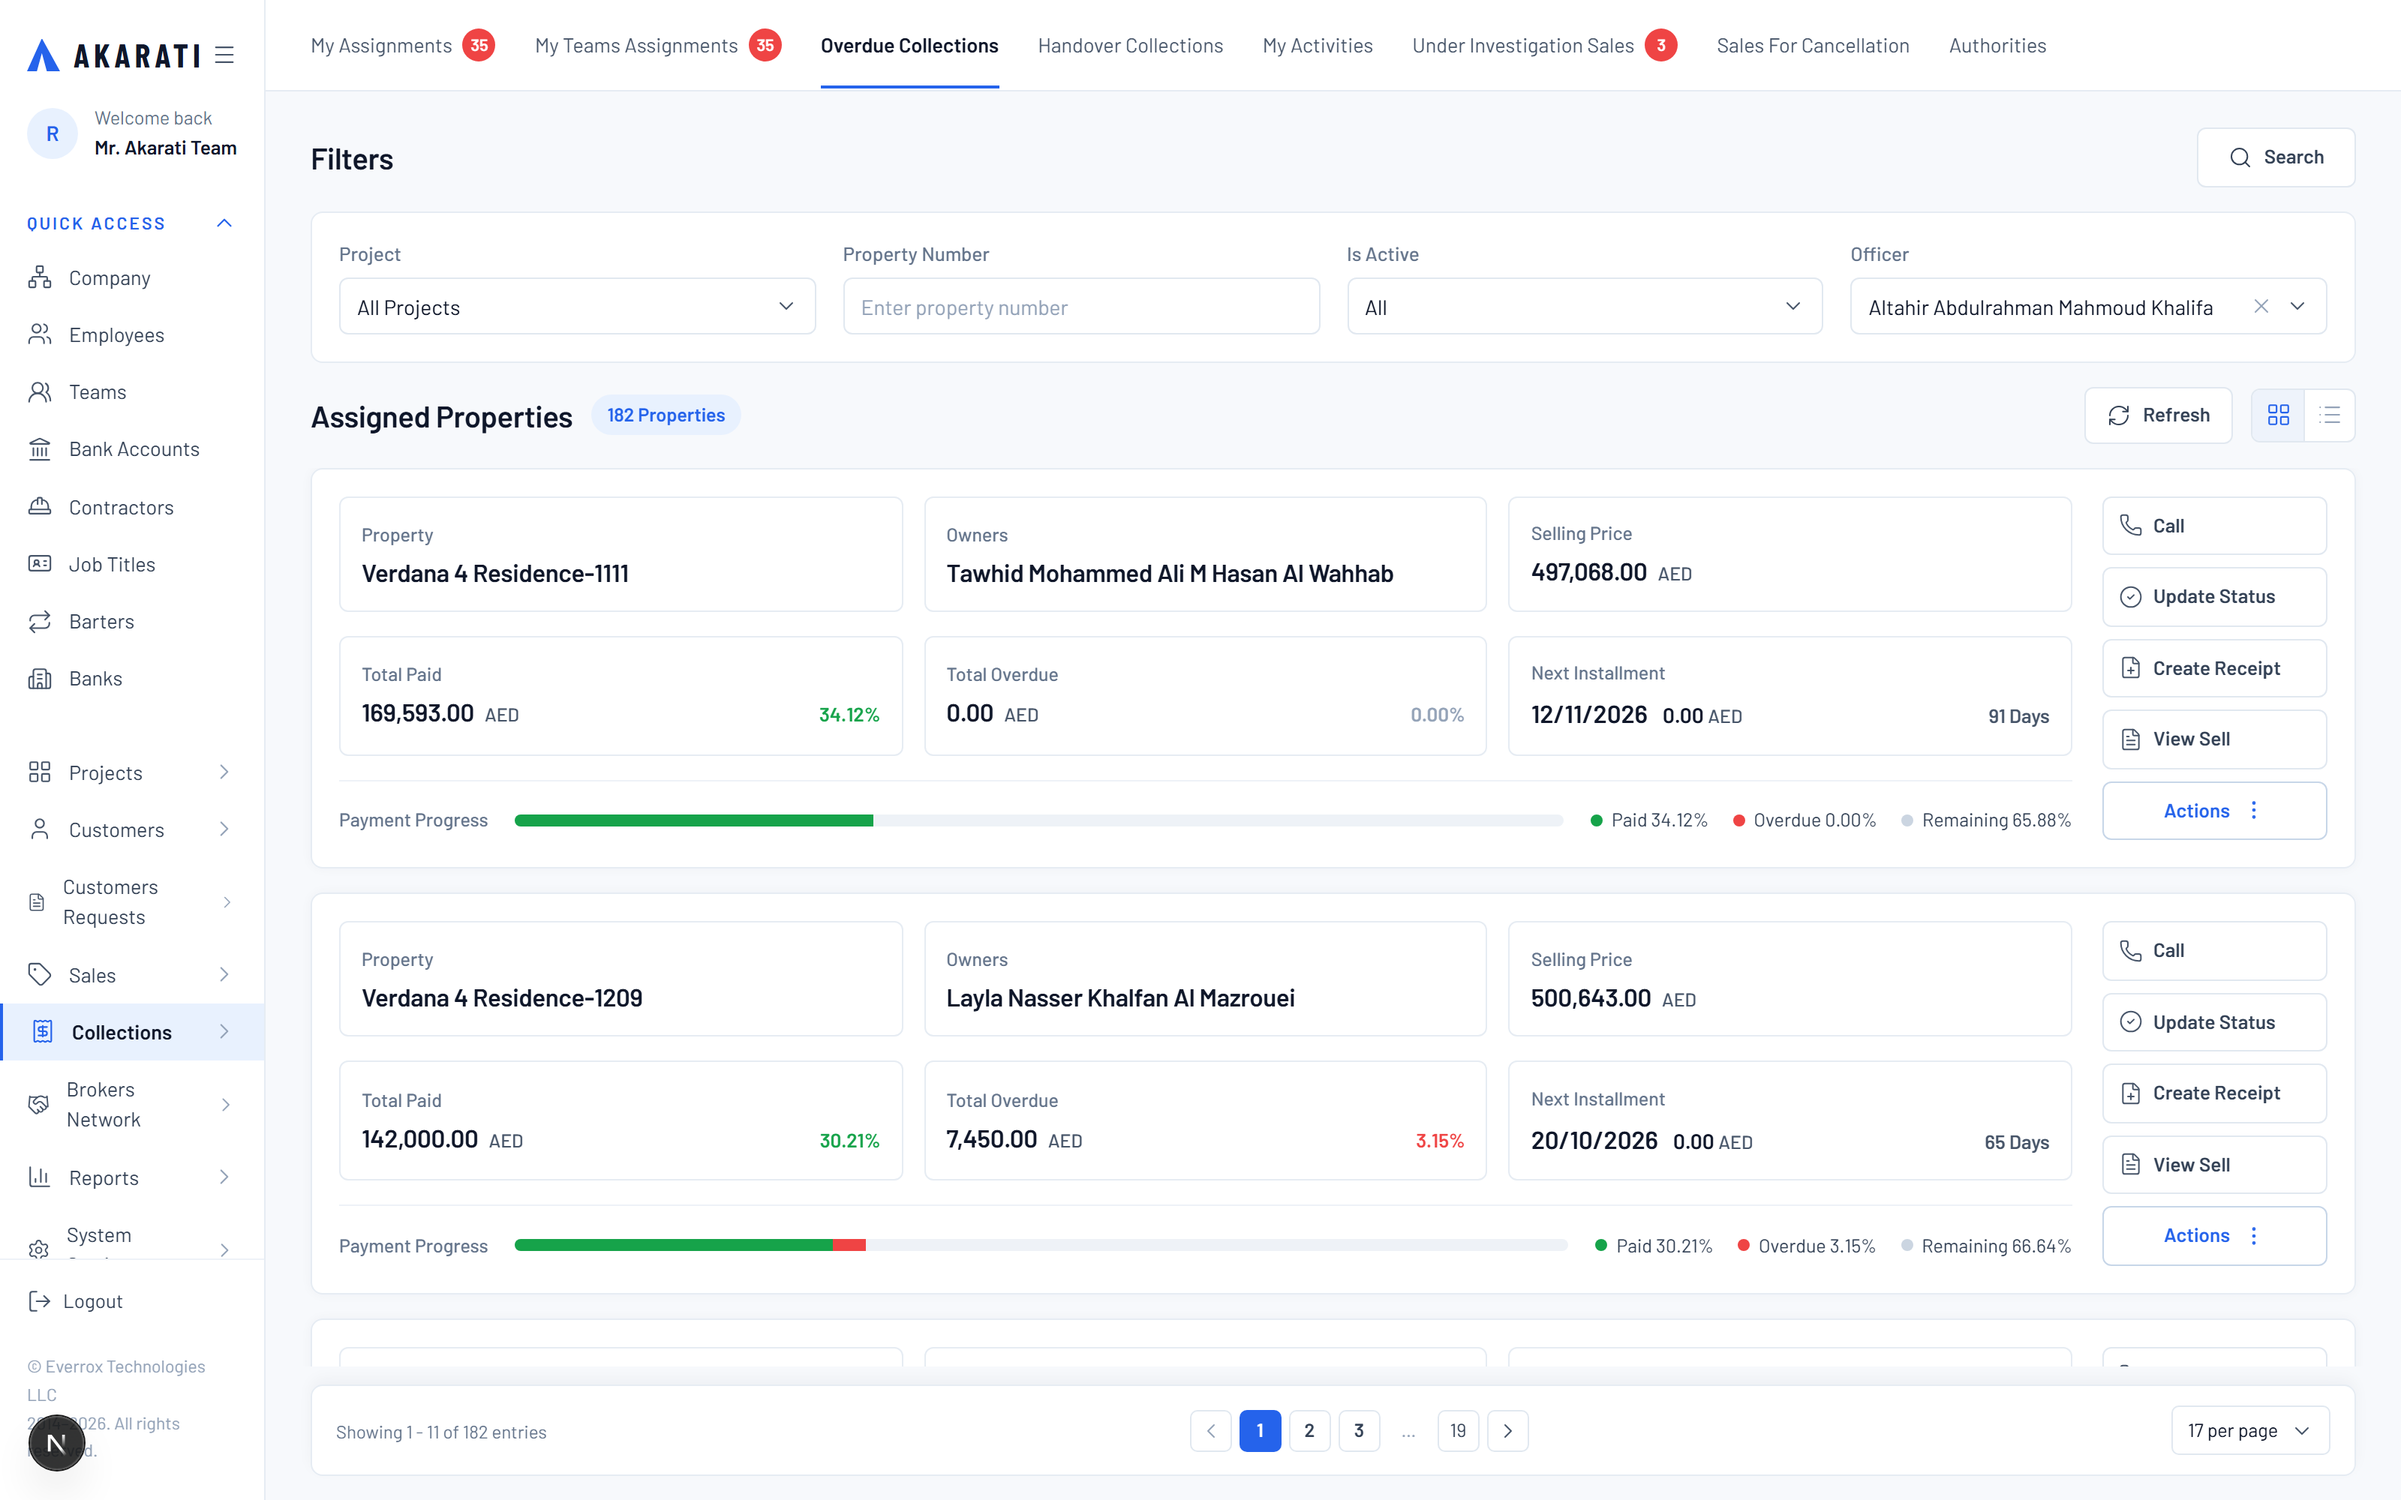
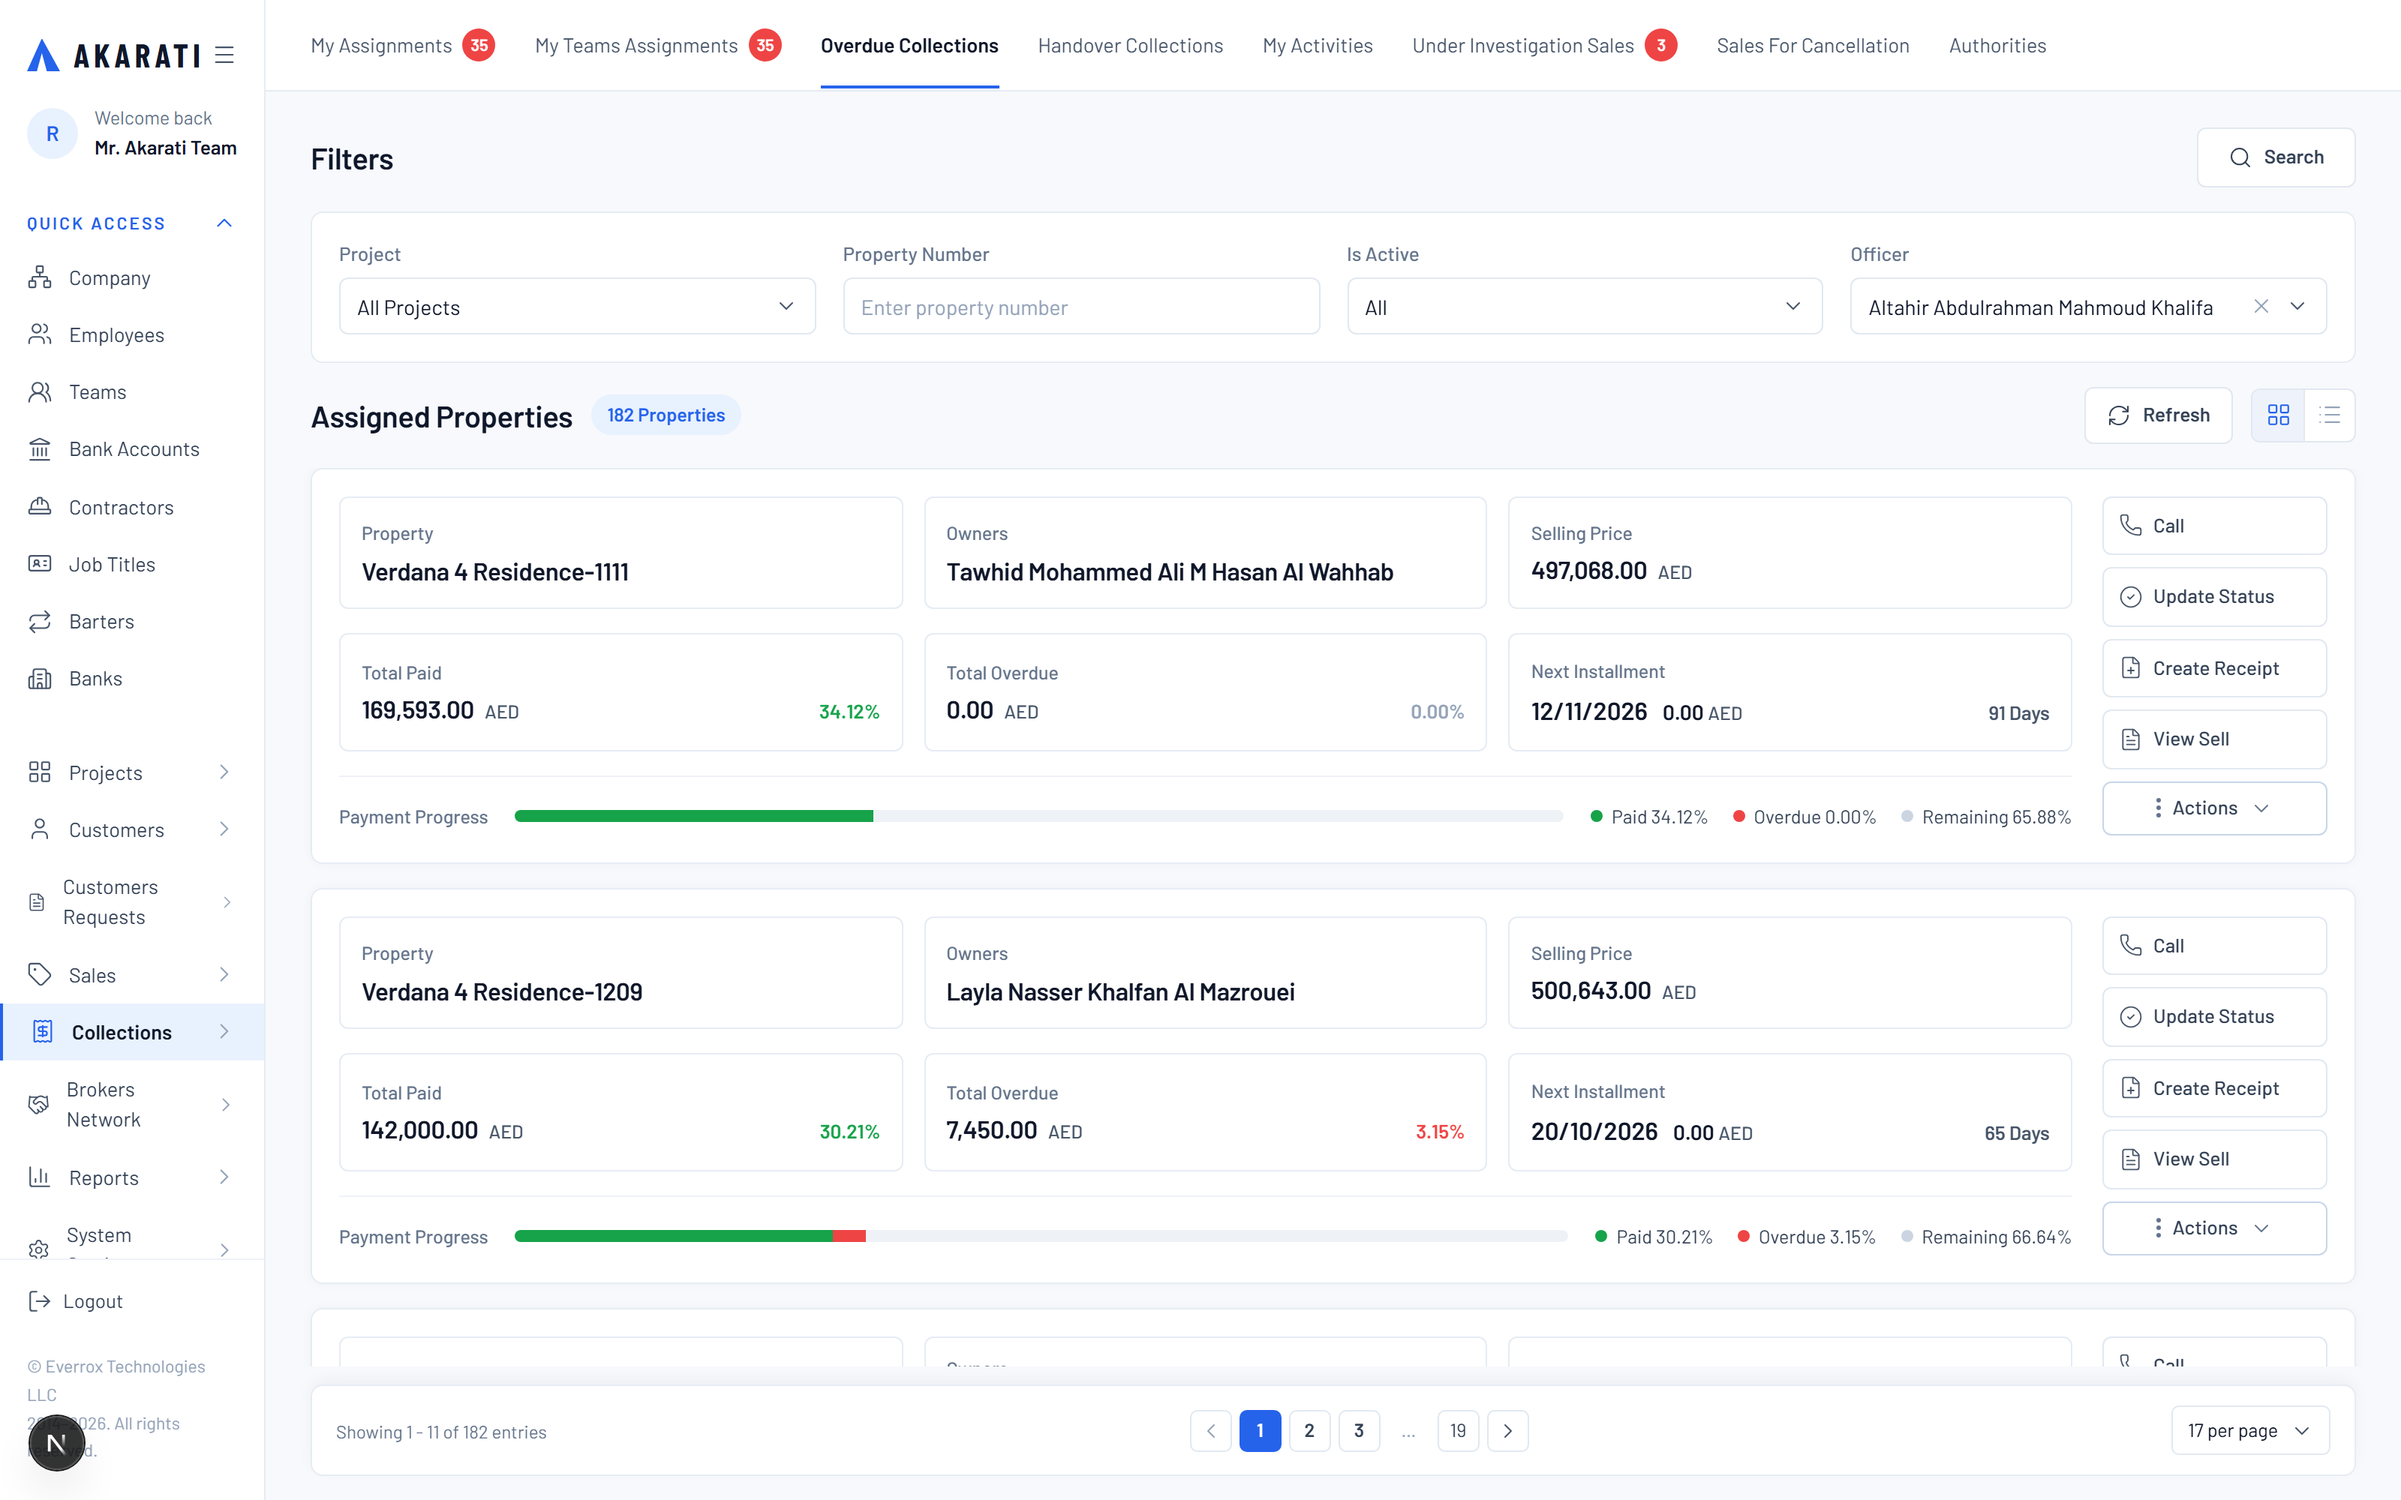
feat: add ActionsMenu and PropertiesTable components for property management interface

diff --git a/src/components/assigned-properties/ActionsMenu.tsx b/src/components/assigned-properties/ActionsMenu.tsx
@@ -1,7 +1,7 @@
 "use client";
 
 import type { ComponentType } from "react";
-import { MoreVertical, Power } from "lucide-react";
+import { MoreVertical, ChevronDown, Power } from "lucide-react";
 
 export type MenuItem = { label: string; icon: ComponentType<{ className?: string; strokeWidth?: number }> };
 
@@ -33,7 +33,7 @@ export function ActionsMenu({
                 : "border-border bg-white text-ink-muted hover:border-accent-border hover:bg-accent-soft hover:text-accent")
             }
         >
-          <MoreVertical className="h-4 w-4" strokeWidth={1.5} />
+          <MoreVertical className="h-4 w-4" strokeWidth={1.4} />
         </button>
       ) : (
         <button
@@ -41,37 +41,48 @@ export function ActionsMenu({
           aria-expanded={open}
           onClick={onToggle}
           className={
-            "flex w-full cursor-pointer items-center justify-center gap-2 rounded-[6px] border border-accent-border font-body text-[13px] font-semibold text-accent transition-colors px-3 py-[9px] " +
-            (open ? "bg-accent-soft" : "bg-white hover:bg-accent-soft")
+            "flex h-9 w-full cursor-pointer items-center justify-center gap-2 rounded-[6px] border font-body text-[13px] font-medium text-ink-soft transition-colors " +
+            (open ? "border-accent-border bg-hover" : "border-[#c7d6e8] bg-white hover:bg-hover")
           }
         >
+          <MoreVerticalDots />
           Actions
-          <MoreVertical className="h-4 w-4" strokeWidth={1.5} />
+          <ChevronDown className="h-4 w-4 text-label" strokeWidth={1.4} />
         </button>
       )}
 
       {open && (
         <div
           className={
-            "absolute z-20 flex w-[214px] flex-col rounded-[8px] border border-border-soft bg-white py-[6px] shadow-[0_14px_32px_rgba(15,23,42,0.14)] end-0 " +
+            "absolute z-20 flex w-[192px] flex-col rounded-[8px] border border-border-soft bg-white py-[6px] shadow-[0_14px_32px_rgba(15,23,42,0.14)] end-0 " +
             (flipUp ? "bottom-[38px]" : "top-[38px]")
           }
         >
           {items.map(({ label, icon: Icon }) => (
             <span
               key={label}
-              className="flex cursor-pointer items-center gap-[9px] px-3 py-[7px] text-[13px] text-ink-soft hover:bg-page"
+              className="flex cursor-pointer items-center gap-[9px] px-3 py-[8px] text-[13px] text-ink-soft hover:bg-page"
             >
-              <Icon className="h-4 w-4 text-ink-muted" strokeWidth={1.5} />
+              <Icon className="h-4 w-4 text-ink-muted" strokeWidth={1.4} />
               {label}
             </span>
           ))}
-          <span className="mt-1 flex cursor-pointer items-center gap-[9px] border-t border-border-faint px-3 pt-[8px] pb-[6px] text-[13px] font-semibold text-red hover:bg-red/5">
-            <Power className="h-4 w-4 text-red" strokeWidth={1.5} />
+          <span className="flex cursor-pointer items-center gap-[9px] px-3 py-[8px] text-[13px] font-semibold text-red hover:bg-red/5">
+            <Power className="h-4 w-4 text-red" strokeWidth={1.4} />
             Request Termination
           </span>
         </div>
       )}
+    </span>
+  );
+}
+
+function MoreVerticalDots() {
+  return (
+    <span className="flex flex-none flex-col items-center justify-center gap-[2px]">
+      <span className="h-[3px] w-[3px] rounded-full bg-label" />
+      <span className="h-[3px] w-[3px] rounded-full bg-label" />
+      <span className="h-[3px] w-[3px] rounded-full bg-label" />
     </span>
   );
 }

diff --git a/src/components/assigned-properties/PropertiesTable.tsx b/src/components/assigned-properties/PropertiesTable.tsx
@@ -236,22 +236,16 @@ export function PropertiesTable({
                   <div className="flex items-center gap-2">
                     <button
                       type="button"
-                      className="group flex h-[35px] w-[74px] cursor-pointer items-center justify-center gap-[7px] rounded-[6px] border border-border-soft bg-white font-body text-[13px] font-semibold whitespace-nowrap text-ink-soft transition-colors hover:border-accent-border hover:text-accent"
+                      className="flex h-[35px] w-[74px] cursor-pointer items-center justify-center gap-[7px] rounded-[6px] border border-border-soft bg-white font-body text-[13px] font-medium whitespace-nowrap text-ink-soft transition-colors hover:bg-hover"
                     >
-                      <Phone
-                        className="h-4 w-4 flex-none text-ink-muted transition-colors group-hover:text-accent"
-                        strokeWidth={1.5}
-                      />
+                      <Phone className="h-4 w-4 flex-none text-ink-muted" strokeWidth={1.4} />
                       Call
                     </button>
                     <button
                       type="button"
-                      className="group flex h-[35px] w-[74px] cursor-pointer items-center justify-center gap-[7px] rounded-[6px] border border-border-soft bg-white font-body text-[13px] font-semibold whitespace-nowrap text-ink-soft transition-colors hover:border-accent-border hover:text-accent"
+                      className="flex h-[35px] w-[74px] cursor-pointer items-center justify-center gap-[7px] rounded-[6px] border border-border-soft bg-white font-body text-[13px] font-medium whitespace-nowrap text-ink-soft transition-colors hover:bg-hover"
                     >
-                      <CircleCheck
-                        className="h-4 w-4 flex-none text-ink-muted transition-colors group-hover:text-accent"
-                        strokeWidth={1.5}
-                      />
+                      <CircleCheck className="h-4 w-4 flex-none text-ink-muted" strokeWidth={1.4} />
                       Update
                     </button>
                     <ActionsMenu

diff --git a/src/components/assigned-properties/PropertyCard.tsx b/src/components/assigned-properties/PropertyCard.tsx
@@ -128,12 +128,9 @@ export function PropertyCard({
           <button
             key={label}
             type="button"
-            className="group flex cursor-pointer items-center gap-[7px] rounded-[6px] border border-border-soft bg-white px-[10px] py-[9px] font-body text-[13px] font-semibold whitespace-nowrap text-ink-soft transition-colors hover:border-accent-border hover:text-accent"
+            className="flex cursor-pointer items-center gap-[7px] rounded-[6px] border border-border-soft bg-white px-[10px] py-[9px] font-body text-[13px] font-medium whitespace-nowrap text-ink-soft transition-colors hover:bg-hover"
           >
-            <Icon
-              className="h-4 w-4 flex-none text-ink-muted transition-colors group-hover:text-accent"
-              strokeWidth={1.5}
-            />
+            <Icon className="h-4 w-4 flex-none text-ink-muted" strokeWidth={1.4} />
             {label}
           </button>
         ))}
